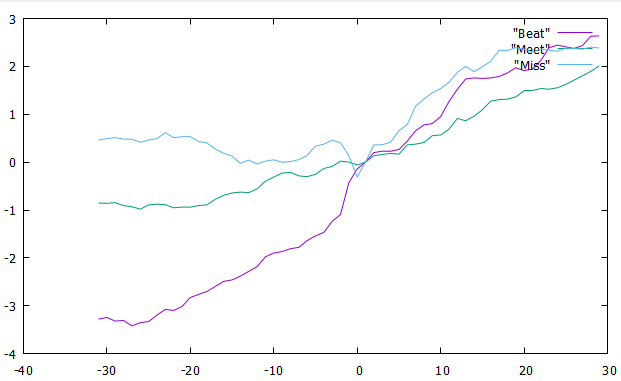
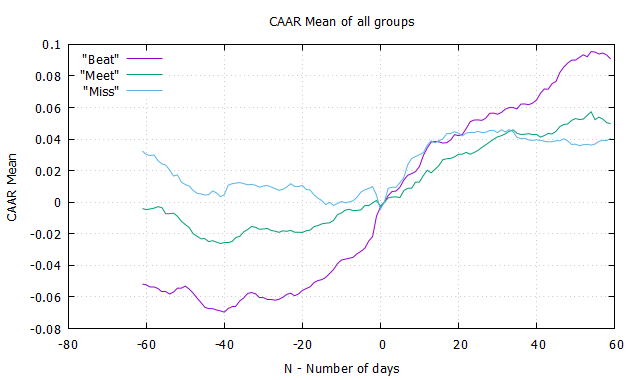
fix: fix aar calculation error

diff --git a/dev/Utils.cpp b/dev/Utils.cpp
@@ -189,7 +189,7 @@ int thread_consumer()
 				return 1;
 			}
 
-			cout << "fetch: storing " << symbol << " from " << sd->startTime << " to " << sd->endTime << endl;
+			//cout << "fetch: storing " << symbol << " from " << sd->startTime << " to " << sd->endTime << endl;
 
 			stringstream sData;
 			sData.str(data.memory);
@@ -198,7 +198,7 @@ int thread_consumer()
 			string line;
 			getline(sData, line);
 
-			cout << "fetch: finish storing " << symbol << " from " << sd->startTime << " to " << sd->endTime << endl;
+			//cout << "fetch: finish storing " << symbol << " from " << sd->startTime << " to " << sd->endTime << endl;
 
 			try
 			{
@@ -341,9 +341,11 @@ void plot_caar(map<string, Vector> research_result)
 
 
 		fprintf(gnuplotPipe, "set term wxt\n");
+		fprintf(gnuplotPipe, "set grid\n");
 		fprintf(gnuplotPipe, "set xlabel 'N - Number of days'\n");
 		fprintf(gnuplotPipe, "set ylabel 'CAAR Mean'\n");
 		fprintf(gnuplotPipe, "set title 'CAAR Mean of all groups'\n");
+		fprintf(gnuplotPipe, "set key left top\n");
 		fprintf(gnuplotPipe, "plot \"%s\" with lines, \"%s\" with lines, \"%s\" with lines\n", tempDataFileName1, tempDataFileName2, tempDataFileName3);
 		fflush(gnuplotPipe);
 

diff --git a/dev/Configure.h b/dev/Configure.h
@@ -8,23 +8,24 @@ using namespace std;
 // global
 #define CALENDAR_FILE ".\\data\\US_cal.csv"
 #define TEST_FILE ".\\data\\Test.csv"
-#define GNU_PATH "C:\\Programs\\gnuplot\\bin\\gnuplot.exe" // ck
+//#define GNU_PATH "C:\\Programs\\gnuplot\\bin\\gnuplot.exe" // wzh
+#define GNU_PATH "D:\\programs\\gnuplot\\bin\\gnuplot.exe" // ck
 #define THREAD_NUM 10
-#define TIME_ZONE "NYC"   // NYC/SH/CH
+#define TIME_ZONE "SH"   // NYC/SH/CH
 
 // live
-//#define MISS_FILE ".\\data\\Miss.csv"
-//#define MEET_FILE ".\\data\\Meet.csv"
-//#define BEAT_FILE ".\\data\\Beat.csv"
-//#define BOOTSTRAP_NUM 50
-//#define RUN_BOOTSTRAP_NUM 40
+#define MISS_FILE ".\\data\\Miss.csv"
+#define MEET_FILE ".\\data\\Meet.csv"
+#define BEAT_FILE ".\\data\\Beat.csv"
+#define BOOTSTRAP_NUM 50
+#define RUN_BOOTSTRAP_NUM 40
 
 // test
-#define MISS_FILE ".\\data\\Miss_Test.csv"
-#define MEET_FILE ".\\data\\Meet_Test.csv"
-#define BEAT_FILE ".\\data\\Beat_Test.csv"
-#define BOOTSTRAP_NUM 20
-#define RUN_BOOTSTRAP_NUM 5
+//#define MISS_FILE ".\\data\\Miss_Test.csv"
+//#define MEET_FILE ".\\data\\Meet_Test.csv"
+//#define BEAT_FILE ".\\data\\Beat_Test.csv"
+//#define BOOTSTRAP_NUM 20
+//#define RUN_BOOTSTRAP_NUM 5
 
 
 #endif

diff --git a/dev/MainEngine.cpp b/dev/MainEngine.cpp
@@ -126,7 +126,7 @@ map<string, map<string, Vector>> MainEngine::RunResearch()
 Vector MainEngine::CalReturnForGroup(vector<StockData*> stock_list)
 {
 	Matrix mat(stock_list);
-	Vector AARt = mat.sum();
+	Vector AARt = mat.mean();
 	return AARt;
 }
 
@@ -152,7 +152,7 @@ void MainEngine::RunMenu()
 			cout << "Please enter N:" << endl;
 			int N;
 			cin >> N;
-			if (N < 30)
+			if ((N < 30) || (N > 60))
 			{
 				cout << "Invalid N, automatically set to N=30." << endl;
 				SetN(30);
